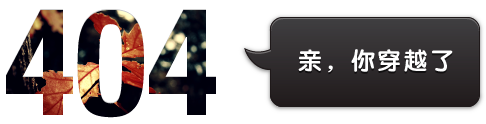
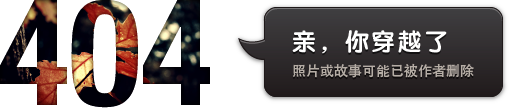
update for #159

diff --git a/public/500.html b/public/500.html
@@ -1,12 +1,12 @@
 <!DOCTYPE HTML>
 <html lang="en">
 <head>
-	<meta charset="UTF-8">
-	<title>VIDA出错啦！</title>
+    <meta charset="UTF-8">
+    <title>VIDA出错啦！</title>
 </head>
 <style type="text/css">
     body {
-        background-image: url(/assets/share/404_bg.jpg);
+        background-image: url(/assets/images/bg.png);
         overflow: hidden;
         margin: 0;
     }
@@ -20,26 +20,24 @@
     }
     #text {
         font-size: 12px;
-        color: white;
-        width: 280px;
+        color: black;
+        width: 284px;
         margin: 0 auto;
+    }    
+    #img {
+        display: block;
+        margin: 220px auto 20px;
     }
-    a {
+    a#back {
         color: #E5253D;
-    }
-
-    #wrapper {
-        margin-top: -250px;
-        position: absolute;
-        z-index: -1;
-        width: 2000px;
-        height: 2000px; 
-        background-image: url(/assets/people/bit_mask.png);
+        display: block;
+        margin: 0 auto;
+        float: right;
     }
 </style>
 <body>
-    <div id="wrapper"></div>
-    <div id="code">500</div>
-    <div id="text">程序居然出错了，WebDev蹲墙角去... <a href="/"> 点击返回首页</a></div>
+    <img id="img" src="/assets/share/500.png">
+    <div id="text">程序居然出错了，WebDev蹲墙角去..<a id="back" href="/"> 点击返回首页</a></div>
+    <div class="clearfix"></div>
 </body>
 </html>

diff --git a/public/404.html b/public/404.html
@@ -26,7 +26,7 @@
     }    
     #img {
         display: block;
-        margin: 100px auto 20px;
+        margin: 220px auto 20px;
     }
     a#back {
         color: #E5253D;

diff --git a/app/controllers/moments_controller.rb b/app/controllers/moments_controller.rb
@@ -1,7 +1,7 @@
 class MomentsController < ApplicationController
   def show
     data = Moment.fetch(params[ :id ] , current_user , :page => 0 , :page_size => 5 )
-    render "misc/error" and return if data[ 'result' ] == 1 
+    render( "misc/error" , :layout => false ) and return if data[ 'result' ] == 1
     redirect_to( user_url(data['data']['user_id']) , :notice => 401 ) and return if data[ 'result' ] == 401 
     @activity = Moment.fetch( nil, current_user , { :activity_id => notice , :page => 0 , :page_size => 1 } ) [ "data" ] [ "items" ] [ 0 ] unless notice .nil?
     @moment = data[ "data" ]

diff --git a/app/controllers/activities_controller.rb b/app/controllers/activities_controller.rb
@@ -1,7 +1,7 @@
 class ActivitiesController < ApplicationController
 	def show
 		data = Moment.fetch( nil, current_user , { :activity_id => params[ :id ] , :page => 0 , :page_size => 1 } ) 
-    	render "misc/error" and return if data[ 'result' ] == 1
+    	render( "misc/error" , :layout => false ) and return if data[ 'result' ] == 1
     	redirect_to( user_url(data['data']['user_id']) , :notice => 401 ) and return if data[ 'result' ] == 401 
 		redirect_to "/moments/#{ data[ "data" ] [ "items" ] [ 0 ] [ "moment_id" ] }" , :notice => params[ :id ]
 	end

diff --git a/app/controllers/users_controller.rb b/app/controllers/users_controller.rb
@@ -2,7 +2,7 @@
 class UsersController < ApplicationController  
   def show
     data = User.fetch( params[:id] , current_user )
-    render "misc/error" and return if data[ "result" ] == 1 
+    render( "misc/error" , :layout => false ) and return if data[ 'result' ] == 1
     @user = data[ "data" ] .symbolize_keys
     @following_tag = get_relation_btn( @user[ :relation ] ) 
     if params[ :category ] .nil?
